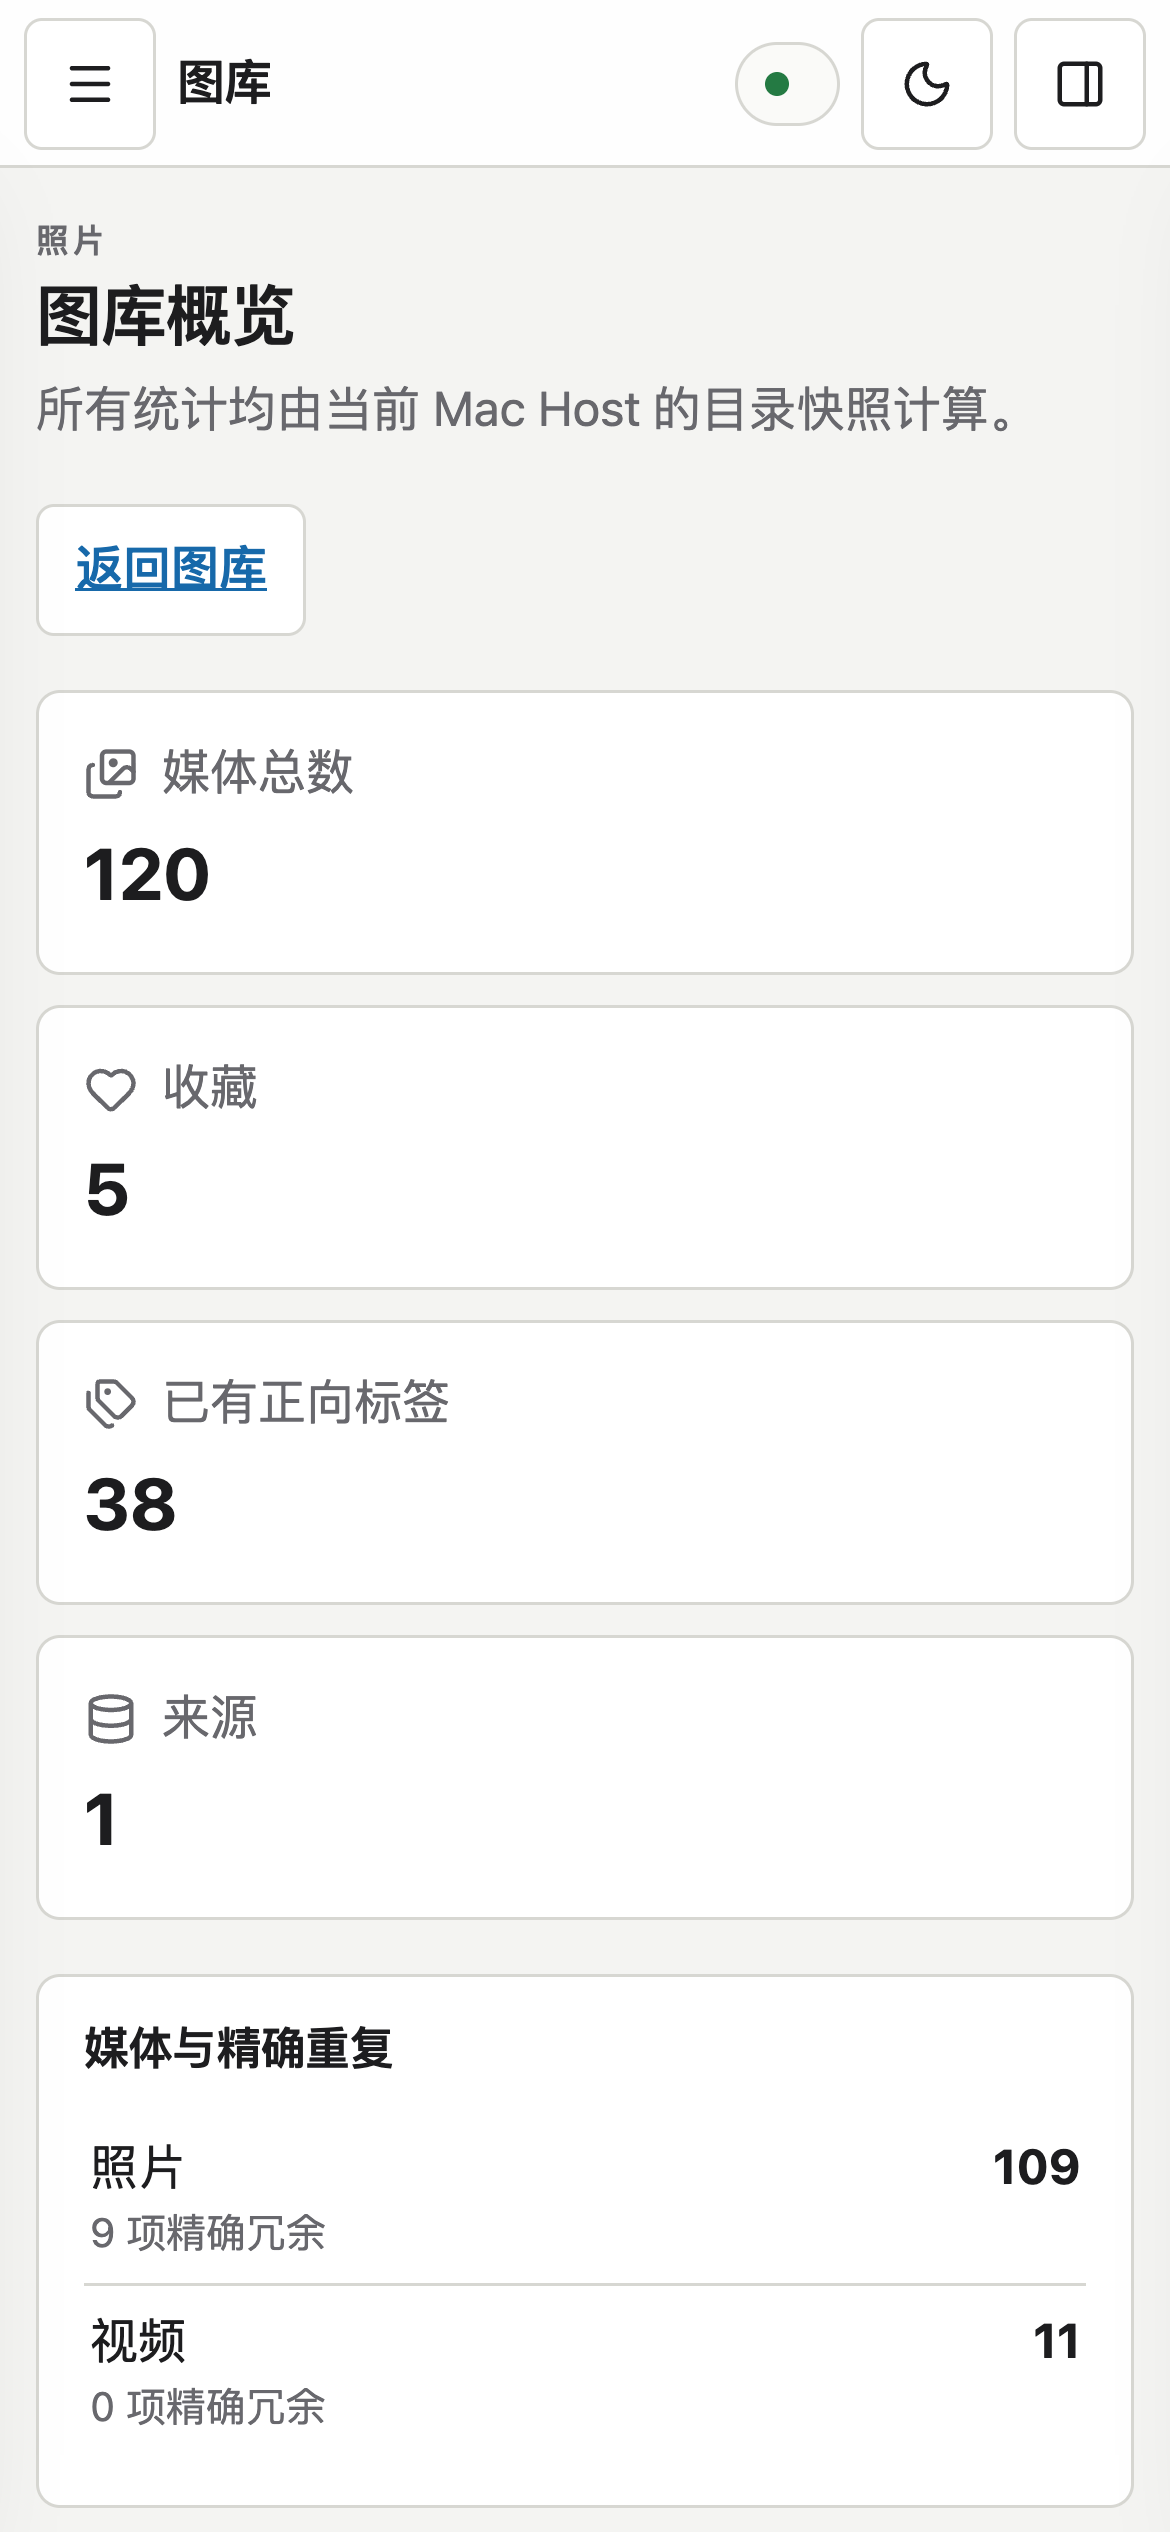
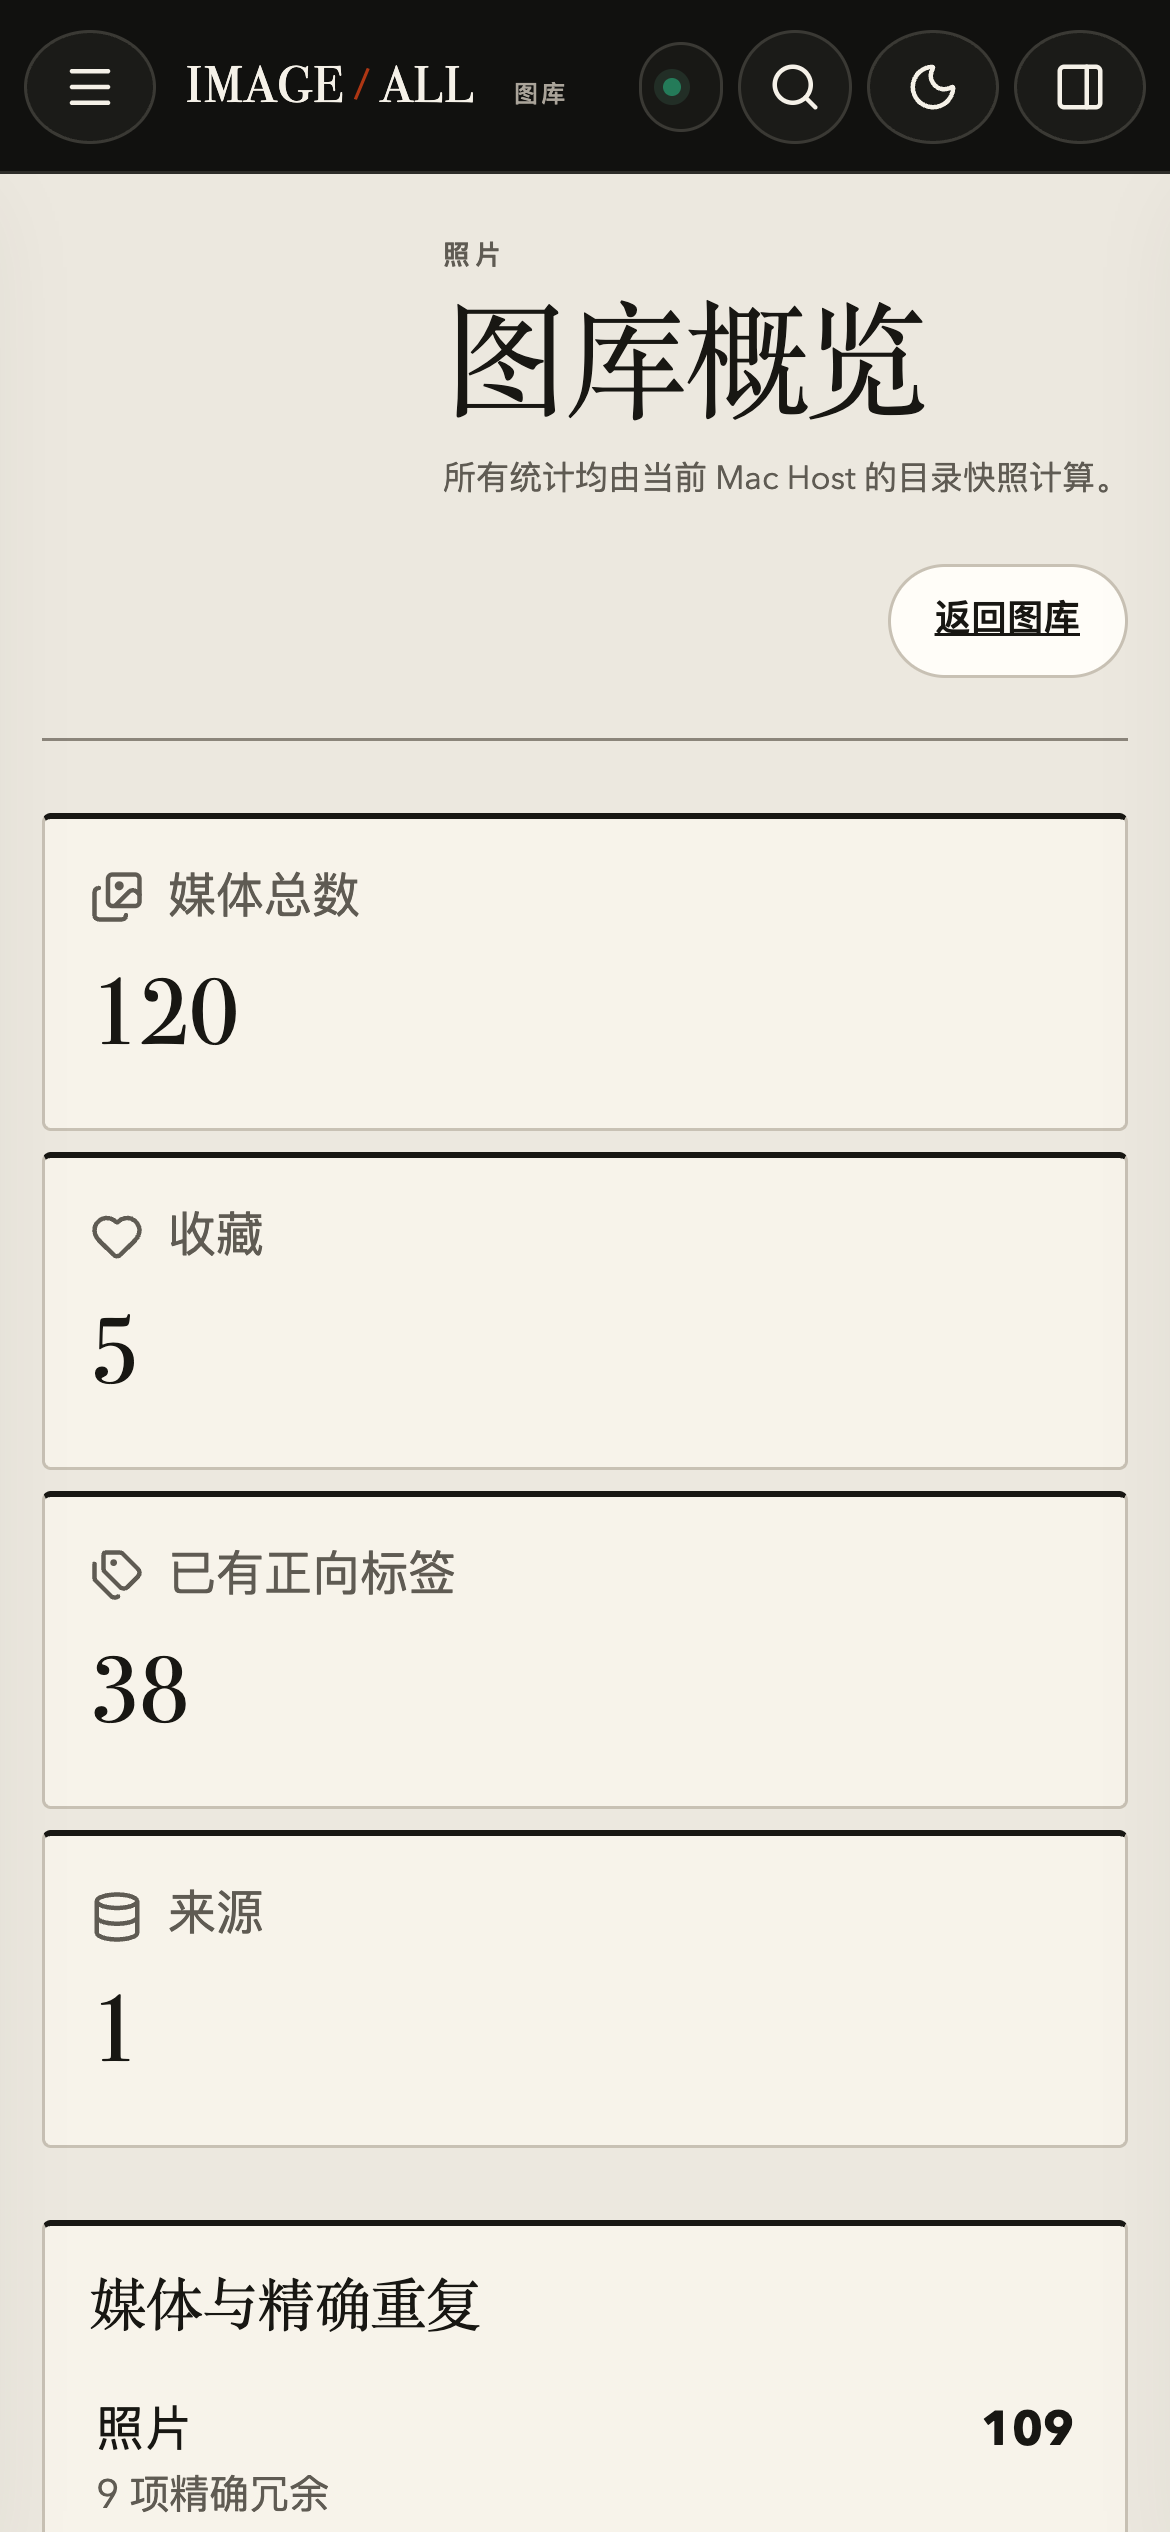
docs(web): record visual redesign evidence

Changed region(s): [[0.0, 0.0, 1.0, 0.9984]]

diff --git a/docs/ADR-065-WEB-COMPANION-VISUAL-IDENTITY.md b/docs/ADR-065-WEB-COMPANION-VISUAL-IDENTITY.md
@@ -1,0 +1,65 @@
+# ADR-065：Web Companion 采用独立的“私人影像档案馆”视觉身份
+
+- 状态：Accepted
+- 日期：2026-09-01
+- 范围：`WebCompanionApp` 与打包到 Mac App 的 `WebCompanionV2` 静态资源
+
+## 背景
+
+Web Companion 的功能对齐目标是：关键任务、状态语义、Mac Host 权威、安全边界与跨设备连续性
+保持一致。它不要求复制 Mac App 的窗口、侧栏、面板密度或系统控件外观。
+
+上一版 React 界面虽然完成了功能迁移，但把“三列信息关系”误解成了桌面 App 的视觉复刻，结果更像
+通用管理后台，照片没有成为主角。网站端需要利用更宽的展示面、触控与浏览器全屏能力，形成自己的
+产品气质。
+
+## 参考研究
+
+本次只提取成熟产品的交互规律，不复制任何单一产品的品牌或界面：
+
+- [Glass Web](https://glass.photo/platform/web)：边到边照片流、全屏与像素级查看、键盘浏览；
+- [mymind](https://mymind.com/) 与 [Cosmos](https://help.cosmos.so/en/articles/11846092-intro-to-cosmos)：
+  私密视觉收藏、弱化文件管理负担、以内容流组织记忆；
+- [Picflow](https://picflow.com/) 与
+  [Frame.io](https://blog.frame.io/2026/01/08/new-in-frame-io-interactive-zips-access-requests-and-a-faster-way-to-get-around/)：
+  将收藏、审批、标注、上一个/下一个等动作放到媒体上下文中；
+- [Adobe Lightroom](https://helpx.adobe.com/in/lightroom-cc/using/organize-photos.html)：无边框网格、方形网格、
+  详情/全屏层级与键盘导航。
+
+## 决策
+
+Web Companion 采用 **ImageAll Atelier / 私人影像档案馆** 作为独立视觉方向：
+
+1. 全局导航使用深墨色框架，工作区使用暖象牙纸色，图库和灯箱使用纯黑接触印样台；
+2. 标题采用编辑部式衬线字体，功能文字使用本机无衬线字体，编号与状态使用等宽字体；不请求外部字体；
+3. 烧橙色只承担选择、活动状态和关键提示，不作为大面积装饰；
+4. 图库卡片改为紧密的 4:3 接触印样，元数据覆盖在照片下缘；完整比例仍在灯箱中以 `contain` 呈现；
+5. 桌面保留“导航—内容—检视器”的信息语义，但三列拥有明显不同的材质和层级；移动端折叠为内容优先的
+   双列影像流，并保留筛选、分析和框选入口；
+6. 灯箱使用接近全屏的黑色观看区和独立纸色元数据栏，操作靠近当前媒体；
+7. 所有表面保持不透明；不使用渐变、玻璃模糊、发光边框或装饰性循环动画。
+
+图库、概览、审核、地图、训练、瘦身、来源、存储、标签、活动、设置和认证入口共享同一套颜色、字体、
+间距、按钮与状态语言，而不是只给图库换皮。
+
+## 不变契约
+
+- Mac Host 继续是列表、修改、任务和设置的唯一权威，网页不伪造成功；
+- 路由、URL 筛选、选择语义、快捷键、右键菜单、撤销、灯箱返回上下文与分页契约不变；
+- 10k 图库继续使用虚拟化；PWA 仍只缓存公开壳层，不缓存私有媒体或会话数据；
+- 深色模式、高对比模式、放大文字、减少动态效果和 390px 触控布局继续受自动化约束；
+- 自动化只使用合成 Host 与合成媒体，不读取、遍历或写入受保护真实图库。
+
+## 取舍
+
+- 编辑感字体依赖系统字体，不同平台字形会略有差异，但换取离线可用和零外部跟踪；
+- 接触印样采用 4:3 裁切以提高浏览密度，精确构图判断必须进入无裁切灯箱；
+- 高密度排版比通用后台更有个性，因此通过强制颜色、键盘与放大文字测试保留可访问兜底。
+
+## 验证
+
+- Playwright：80 项中 76 项通过、4 项按浏览器项目配置跳过；
+- 10k 合成图库：首卡可交互 969 ms，DOM 630，卡片 28，选择反馈 p95 17.3 ms，灯箱 p95
+  95.6 ms，长任务 0，滚动锚点偏差 0 px；
+- 前后对比与当前桌面/移动截图位于
+  `docs/web-companion-refactor/evidence/visual-redesign/`。

diff --git a/docs/web-companion-refactor/VISUAL-REDESIGN-2026-09-01.md b/docs/web-companion-refactor/VISUAL-REDESIGN-2026-09-01.md
@@ -1,0 +1,33 @@
+# Web Companion 视觉重设计交付（2026-09-01）
+
+## 结果
+
+Web Companion 已从“Mac App 网页复刻 / 通用管理后台”重构为独立的私人影像档案馆。功能、Host 权威、
+安全和上下文连续性保持不变；全站视觉、图库浏览和灯箱层级重做。
+
+## 核心变化
+
+- 深墨导航、暖纸工作区、黑色接触印样台构成三层空间；
+- 图库使用大字号编辑式标题和紧密 4:3 影像流，工具压缩到必要上下文；
+- 灯箱改为近全屏观看区，属性、收藏和标签决定集中在右侧纸色栏；
+- 概览、审核、地图、训练、瘦身、来源、存储、标签、活动、设置和认证入口统一到同一视觉系统；
+- 390px 保留双列影像流、筛选、分析、框选与全局搜索入口；
+- 未引入外部字体、渐变、玻璃模糊或装饰性动画。
+
+完整决策和参考研究见 [ADR-065](../ADR-065-WEB-COMPANION-VISUAL-IDENTITY.md)。
+
+## 视觉证据
+
+| 场景 | 重设计前 | 重设计后 |
+| --- | --- | --- |
+| 桌面图库 | `evidence/visual-redesign/before/gallery-desktop.png` | `evidence/visual-redesign/after/gallery-desktop.png` |
+| 移动图库 | `evidence/visual-redesign/before/gallery-mobile.png` | `evidence/visual-redesign/after/gallery-mobile.png` |
+| 桌面灯箱 | `evidence/visual-redesign/before/viewer-desktop.png` | `evidence/visual-redesign/after/viewer-desktop.png` |
+
+## 验证边界
+
+- Playwright 完整矩阵：76 通过、4 跳过；桌面、1024×768、390px、深色、高对比、减少动态和放大
+  文字均在矩阵中；
+- 10k 性能门槛全部通过；
+- 测试只使用虚构 UUID、合成 Host 和合成媒体；未启动生产 Host，未读取或遍历 `/Volumes/HDD2`；
+- 当前证据不替代真实设备上的 VoiceOver、真实照片观感和公网移动浏览器手势验收。
